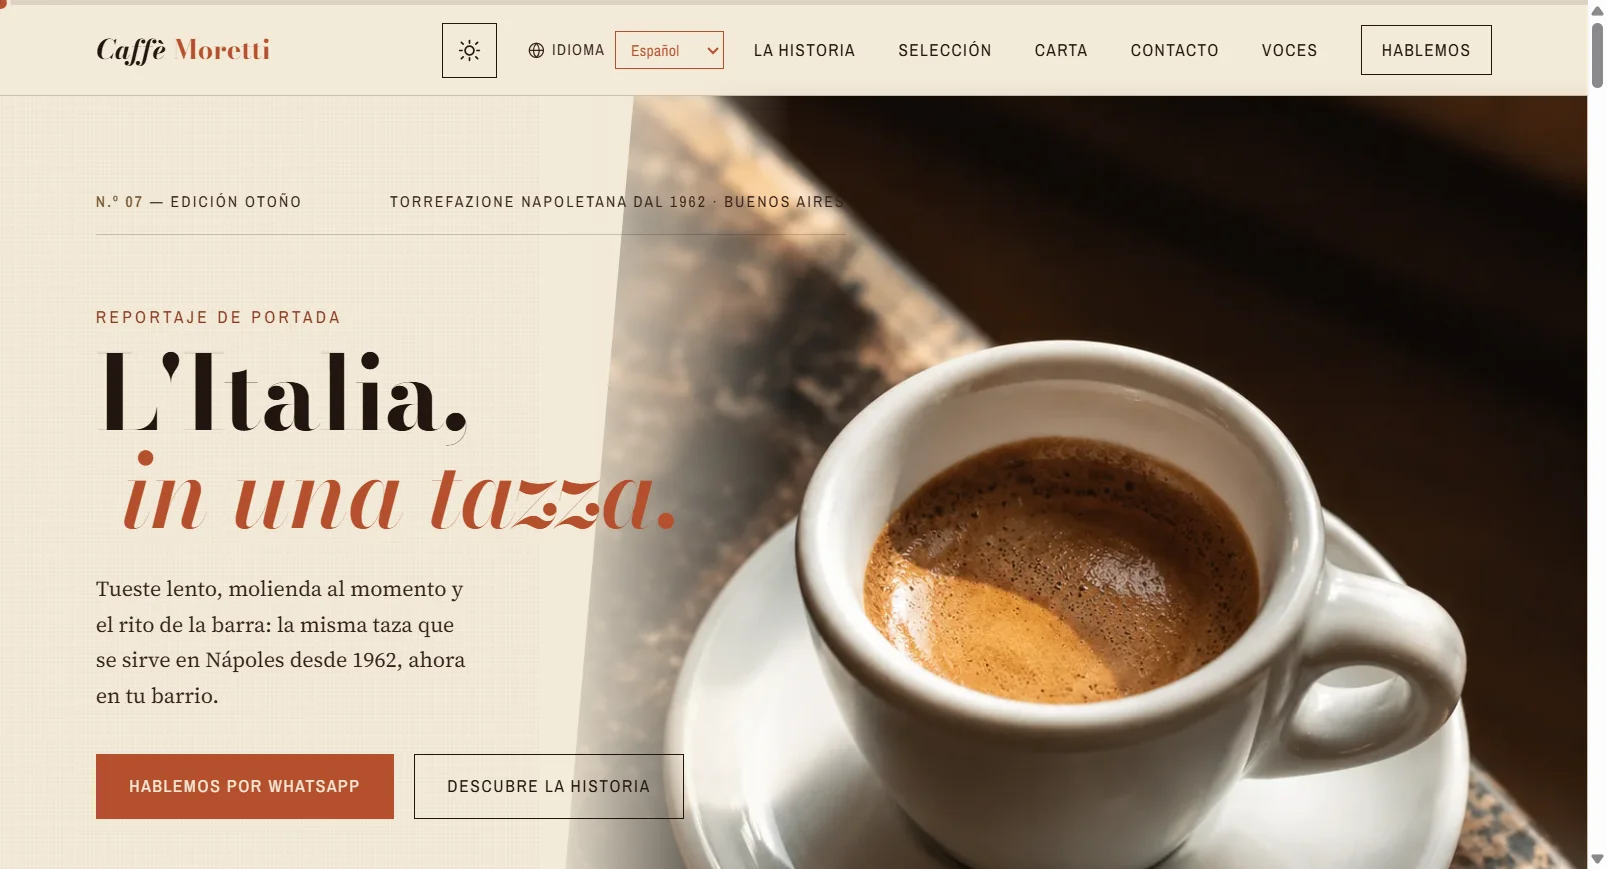
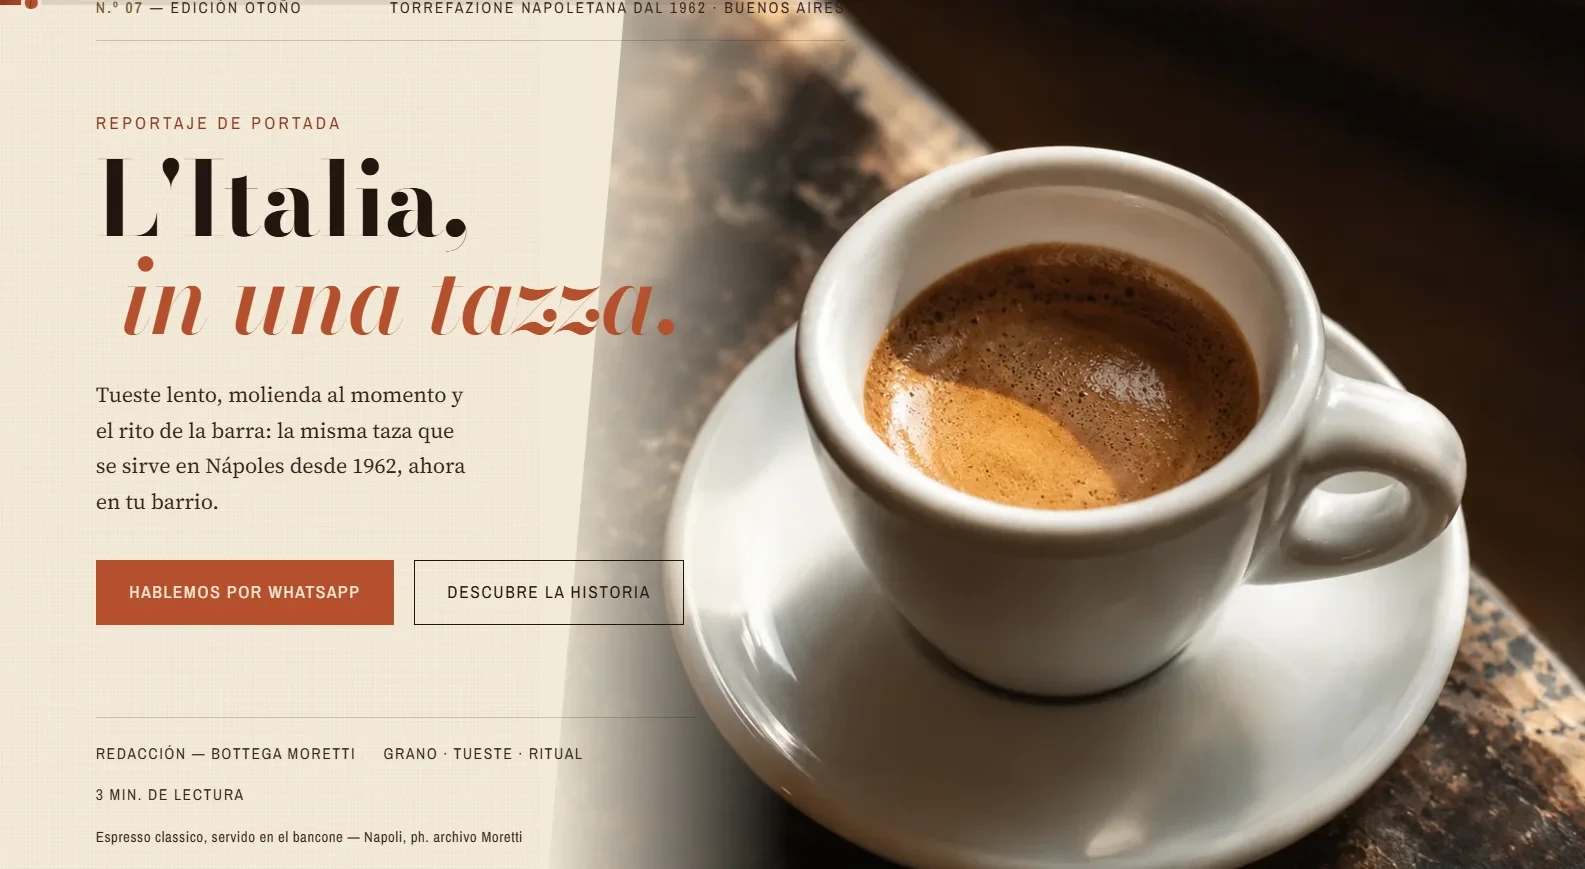
Add files via upload

diff --git a/proyecto.html b/proyecto.html
@@ -38,9 +38,21 @@
 <meta property="og:type" content="website">
 <meta property="og:title" content="Café Moretti — Proyecto de demostración — Lemuel Labs">
 <meta property="og:description" content="Un sitio funcional construido con el plan Premium para mostrar ese nivel en un caso de uso real. No es un cliente real — es nuestra propia demo.">
-<!-- TODO: reemplazar TU-DOMINIO.com por el dominio real cuando el sitio esté publicado -->
+<!-- TODO: reemplazar TU-DOMINIO.com por el dominio real cuando el sitio esté publicado.
+     Mientras el dominio sea un placeholder, og:image/twitter:image apuntan a una URL
+     que no existe todavía (https://TU-DOMINIO.com/img/og-cover.jpg) — esa es la razón
+     principal por la que hoy no se ve la imagen al compartir el link. El resto ya está
+     resuelto: og-cover.jpg existe, es .jpg (liviano, ~40KB, más compatible con
+     crawlers sociales que .webp) y las etiquetas og:image:width/height ya están
+     completas. Una vez publicado con el dominio real, verificar la preview con:
+     Facebook Sharing Debugger (developers.facebook.com/tools/debug),
+     Twitter Card Validator (cards-dev.twitter.com/validator) o
+     LinkedIn Post Inspector (linkedin.com/post-inspector). -->
 <meta property="og:url" content="https://TU-DOMINIO.com/proyecto.html">
 <meta property="og:image" content="https://TU-DOMINIO.com/img/og-cover.jpg">
+<meta property="og:image:type" content="image/jpeg">
+<meta property="og:image:width" content="1200">
+<meta property="og:image:height" content="630">
 <meta property="og:locale" content="es_LA">
 
 <meta name="twitter:card" content="summary_large_image">
@@ -139,17 +151,9 @@
 
       <div class="case reveal">
         <div class="case-media-wrap">
-          <!--
-            TODO: reemplazar por la captura real de
-            https://lemuelabs.github.io/caffe-moretti/
-            (se generará con Claude Code — ver nota del equipo).
-            Mientras tanto: placeholder explícito, sin imagen de stock.
-
-            E1 — Cuando se reemplace este div por un <img>, usar:
-            alt="Captura de pantalla del sitio Café Moretti, mostrando su
-            página de inicio con menú, ubicación y contacto."
-          -->
-          <div class="case-media" data-parallax>Imagen aquí — captura de Café Moretti</div>
+          <div class="case-media" data-parallax>
+            <img src="img/caffe-moretti.webp" alt="Captura de pantalla de la página de inicio de Café Moretti, con el titular «L'Italia, in una tazza» y una taza de espresso servida en el bancone.">
+          </div>
         </div>
         <div class="case-body">
           <div class="case-info">

diff --git a/index.html b/index.html
@@ -39,9 +39,21 @@
 <meta property="og:type" content="website">
 <meta property="og:title" content="Lemuel Labs — Desarrollo web a medida en 3 niveles">
 <meta property="og:description" content="Sitios a medida en tres planes: Esencial, Profesional y Premium. Sin plantillas, con trato directo y cupos limitados por mes.">
-<!-- TODO: reemplazar TU-DOMINIO.com por el dominio real cuando el sitio esté publicado -->
+<!-- TODO: reemplazar TU-DOMINIO.com por el dominio real cuando el sitio esté publicado.
+     Mientras el dominio sea un placeholder, og:image/twitter:image apuntan a una URL
+     que no existe todavía (https://TU-DOMINIO.com/img/og-cover.jpg) — esa es la razón
+     principal por la que hoy no se ve la imagen al compartir el link. El resto ya está
+     resuelto: og-cover.jpg existe, es .jpg (liviano, ~40KB, más compatible con
+     crawlers sociales que .webp) y las etiquetas og:image:width/height ya están
+     completas. Una vez publicado con el dominio real, verificar la preview con:
+     Facebook Sharing Debugger (developers.facebook.com/tools/debug),
+     Twitter Card Validator (cards-dev.twitter.com/validator) o
+     LinkedIn Post Inspector (linkedin.com/post-inspector). -->
 <meta property="og:url" content="https://TU-DOMINIO.com/index.html">
 <meta property="og:image" content="https://TU-DOMINIO.com/img/og-cover.jpg">
+<meta property="og:image:type" content="image/jpeg">
+<meta property="og:image:width" content="1200">
+<meta property="og:image:height" content="630">
 <meta property="og:locale" content="es_LA">
 
 <meta name="twitter:card" content="summary_large_image">

diff --git a/servicios.html b/servicios.html
@@ -38,9 +38,21 @@
 <meta property="og:type" content="website">
 <meta property="og:title" content="Lo que tiene tu sitio — Lemuel Labs">
 <meta property="og:description" content="Las 10 features del plan Premium, explicadas — y demostradas en vivo en este mismo sitio.">
-<!-- TODO: reemplazar TU-DOMINIO.com por el dominio real cuando el sitio esté publicado -->
+<!-- TODO: reemplazar TU-DOMINIO.com por el dominio real cuando el sitio esté publicado.
+     Mientras el dominio sea un placeholder, og:image/twitter:image apuntan a una URL
+     que no existe todavía (https://TU-DOMINIO.com/img/og-cover.jpg) — esa es la razón
+     principal por la que hoy no se ve la imagen al compartir el link. El resto ya está
+     resuelto: og-cover.jpg existe, es .jpg (liviano, ~40KB, más compatible con
+     crawlers sociales que .webp) y las etiquetas og:image:width/height ya están
+     completas. Una vez publicado con el dominio real, verificar la preview con:
+     Facebook Sharing Debugger (developers.facebook.com/tools/debug),
+     Twitter Card Validator (cards-dev.twitter.com/validator) o
+     LinkedIn Post Inspector (linkedin.com/post-inspector). -->
 <meta property="og:url" content="https://TU-DOMINIO.com/servicios.html">
 <meta property="og:image" content="https://TU-DOMINIO.com/img/og-cover.jpg">
+<meta property="og:image:type" content="image/jpeg">
+<meta property="og:image:width" content="1200">
+<meta property="og:image:height" content="630">
 <meta property="og:locale" content="es_LA">
 
 <meta name="twitter:card" content="summary_large_image">

diff --git a/planes.html b/planes.html
@@ -38,9 +38,21 @@
 <meta property="og:type" content="website">
 <meta property="og:title" content="Planes y precios — Lemuel Labs">
 <meta property="og:description" content="Esencial, Profesional y Premium: tres niveles de sitio web a medida, con precio y features claras.">
-<!-- TODO: reemplazar TU-DOMINIO.com por el dominio real cuando el sitio esté publicado -->
+<!-- TODO: reemplazar TU-DOMINIO.com por el dominio real cuando el sitio esté publicado.
+     Mientras el dominio sea un placeholder, og:image/twitter:image apuntan a una URL
+     que no existe todavía (https://TU-DOMINIO.com/img/og-cover.jpg) — esa es la razón
+     principal por la que hoy no se ve la imagen al compartir el link. El resto ya está
+     resuelto: og-cover.jpg existe, es .jpg (liviano, ~40KB, más compatible con
+     crawlers sociales que .webp) y las etiquetas og:image:width/height ya están
+     completas. Una vez publicado con el dominio real, verificar la preview con:
+     Facebook Sharing Debugger (developers.facebook.com/tools/debug),
+     Twitter Card Validator (cards-dev.twitter.com/validator) o
+     LinkedIn Post Inspector (linkedin.com/post-inspector). -->
 <meta property="og:url" content="https://TU-DOMINIO.com/planes.html">
 <meta property="og:image" content="https://TU-DOMINIO.com/img/og-cover.jpg">
+<meta property="og:image:type" content="image/jpeg">
+<meta property="og:image:width" content="1200">
+<meta property="og:image:height" content="630">
 <meta property="og:locale" content="es_LA">
 
 <meta name="twitter:card" content="summary_large_image">

diff --git a/contacto.html b/contacto.html
@@ -38,9 +38,21 @@
 <meta property="og:type" content="website">
 <meta property="og:title" content="Contacto — Lemuel Labs">
 <meta property="og:description" content="Cuéntanos sobre tu proyecto. Cupos limitados por mes.">
-<!-- TODO: reemplazar TU-DOMINIO.com por el dominio real cuando el sitio esté publicado -->
+<!-- TODO: reemplazar TU-DOMINIO.com por el dominio real cuando el sitio esté publicado.
+     Mientras el dominio sea un placeholder, og:image/twitter:image apuntan a una URL
+     que no existe todavía (https://TU-DOMINIO.com/img/og-cover.jpg) — esa es la razón
+     principal por la que hoy no se ve la imagen al compartir el link. El resto ya está
+     resuelto: og-cover.jpg existe, es .jpg (liviano, ~40KB, más compatible con
+     crawlers sociales que .webp) y las etiquetas og:image:width/height ya están
+     completas. Una vez publicado con el dominio real, verificar la preview con:
+     Facebook Sharing Debugger (developers.facebook.com/tools/debug),
+     Twitter Card Validator (cards-dev.twitter.com/validator) o
+     LinkedIn Post Inspector (linkedin.com/post-inspector). -->
 <meta property="og:url" content="https://TU-DOMINIO.com/contacto.html">
 <meta property="og:image" content="https://TU-DOMINIO.com/img/og-cover.jpg">
+<meta property="og:image:type" content="image/jpeg">
+<meta property="og:image:width" content="1200">
+<meta property="og:image:height" content="630">
 <meta property="og:locale" content="es_LA">
 
 <meta name="twitter:card" content="summary_large_image">

diff --git a/css/styles.css b/css/styles.css
@@ -828,19 +828,11 @@ section{ position:relative; padding:6.5rem 0; }
 .case-media-wrap{ overflow:hidden; margin:1.25rem; border-radius:4px; }
 .case-media{
   aspect-ratio:16/8;
-  border:1px dashed var(--border-strong);
   border-radius:4px;
-  display:flex;
-  align-items:center;
-  justify-content:center;
-  color:var(--text-dimmer);
-  font-size:0.85rem;
-  letter-spacing:0.1em;
-  text-transform:uppercase;
-  background:repeating-linear-gradient(135deg, rgba(124,58,237,0.05) 0 12px, transparent 12px 24px);
+  overflow:hidden;
   will-change:transform;
 }
-.case-media img{ width:100%; height:100%; object-fit:cover; }
+.case-media img{ width:100%; height:100%; object-fit:cover; object-position:center 30%; display:block; }
 .case-body{ padding:1rem 2.25rem 2.5rem; display:flex; justify-content:space-between; gap:2.5rem; flex-wrap:wrap; }
 .case-info{ max-width:50ch; }
 .case-tags{ display:flex; gap:0.6rem; margin-bottom:1rem; flex-wrap:wrap; }
